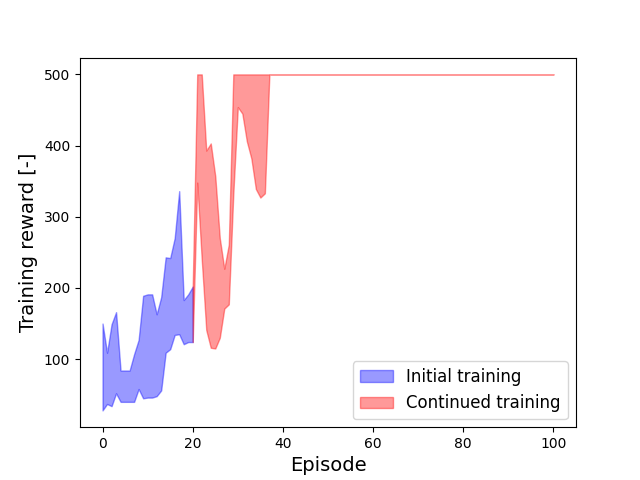
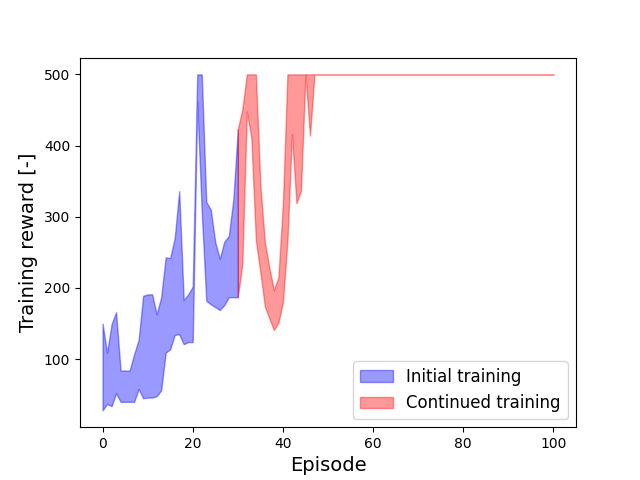
Implemented minibatch updating

Changed region(s): [[0.2812, 0.1562, 0.5, 0.75]]

diff --git a/jaxagents/ppo.py b/jaxagents/ppo.py
@@ -580,9 +580,9 @@ class PPOAgentBase(ABC):
         return advantages
 
     @partial(jax.jit, static_argnums=(0,))
-    def _make_step_runners(self, update_runner: Runner) -> tuple:
+    def _make_rollout_runners(self, update_runner: Runner) -> tuple:
         """
-        Creates a step_runners tuple to be used in rollout by combining the batched environments in the update_runner
+        Creates a rollout_runners tuple to be used in rollout by combining the batched environments in the update_runner
         object and broadcasting the TrainState object for the critic and the network in the update_runner object to the
         same dimension.
         :param update_runner: The Runner object, containing information about the current status of the actor's/
@@ -590,15 +590,15 @@ class PPOAgentBase(ABC):
         :return: Tuple with step runners to be used in rollout.
         """
 
-        step_runner = (
+        rollout_runner = (
             update_runner.env_state,
             update_runner.state,
             update_runner.actor_training,
             update_runner.critic_training,
             update_runner.rng
         )
-        step_runners = jax.vmap(lambda v, w, x, y, z: (v, w, x, y, z), in_axes=(0, 0, None, None, 0))(*step_runner)
-        return step_runners
+        rollout_runners = jax.vmap(lambda v, w, x, y, z: (v, w, x, y, z), in_axes=(0, 0, None, None, 0))(*rollout_runner)
+        return rollout_runners
 
     @partial(jax.jit, static_argnums=(0,))
     def _rollout(self, step_runner: STEP_RUNNER_TYPE, i_step: int) -> Tuple[STEP_RUNNER_TYPE, Transition]:
@@ -815,10 +815,10 @@ class PPOAgentBase(ABC):
         :return: The updated runner
         """
 
-        step_runners = self._make_step_runners(update_runner)
+        rollout_runners = self._make_rollout_runners(update_runner)
         scan_rollout_fn = lambda x: lax.scan(self._rollout, x, None, self.config.rollout_length)
-        step_runners, traj_batch = jax.vmap(scan_rollout_fn)(step_runners)
-        last_env_state, last_state, _, _, rng = step_runners
+        rollout_runners, traj_batch = jax.vmap(scan_rollout_fn)(rollout_runners)
+        last_env_state, last_state, _, _, rng = rollout_runners
         traj_batch = self._process_trajectory(update_runner, traj_batch, last_state)
 
         actor_training = self._actor_update(update_runner, traj_batch)
@@ -937,10 +937,6 @@ class PPOAgentBase(ABC):
             update_runner = self.training_runner
             update_runner = update_runner.replace(hyperparams=hyperparams)  # Use newly provided hyperparameters.
 
-        n_training_batches = self.config.n_steps // self.config.eval_frequency
-
-        progressbar_desc = f'Training batch (training steps = batch x {self.config.eval_frequency})'
-
         # Checkpoint initial state
         metrics_start = self._generate_metrics(runner=update_runner, update_step=0)
         self._checkpoint(update_runner, metrics_start, self.previous_training_max_step)
@@ -953,6 +949,10 @@ class PPOAgentBase(ABC):
         self._critic_minibatch_fn = lambda x, y: self._critic_minibatch_update(x, y, critic_grad_fn)
 
         # Train, evaluate, checkpoint
+
+        n_training_batches = self.config.n_steps // self.config.eval_frequency
+        progressbar_desc = f'Training batch (training steps = batch x {self.config.eval_frequency})'
+
         runner, metrics = lax.scan(
             scan_tqdm(n_training_batches, desc=progressbar_desc)(self._training_step),
             update_runner,

diff --git a/benchmarks/cartpole v1/cartpole_v1_ppo_restore_agent.py b/benchmarks/cartpole v1/cartpole_v1_ppo_restore_agent.py
@@ -26,7 +26,7 @@ if __name__ == '__main__':
         actor_network=PGActorNN,
         critic_network=PGCriticNN,
         rollout_length=50,
-        n_steps=20,
+        n_steps=30,
         batch_size=16,
         minibatch_size=4,
         actor_epochs=10,
@@ -67,7 +67,7 @@ if __name__ == '__main__':
         actor_network=PGActorNN,
         critic_network=PGCriticNN,
         rollout_length=50,
-        n_steps=80,
+        n_steps=70,
         batch_size=16,
         minibatch_size=4,
         actor_epochs=10,
@@ -83,8 +83,8 @@ if __name__ == '__main__':
     agent.restore(mode='last')
 
     """Continue training agent"""
-    # Use the same training rng, it is trivial when training with a restored agent.
     t0 = time.time()
+    # Use the same training rng, it is trivial when training with a restored agent.
     runner, training_metrics = jax.block_until_ready(agent.train(rng_train, hyperparams))
     print(f"time: {time.time() - t0:.2f} s")
 
